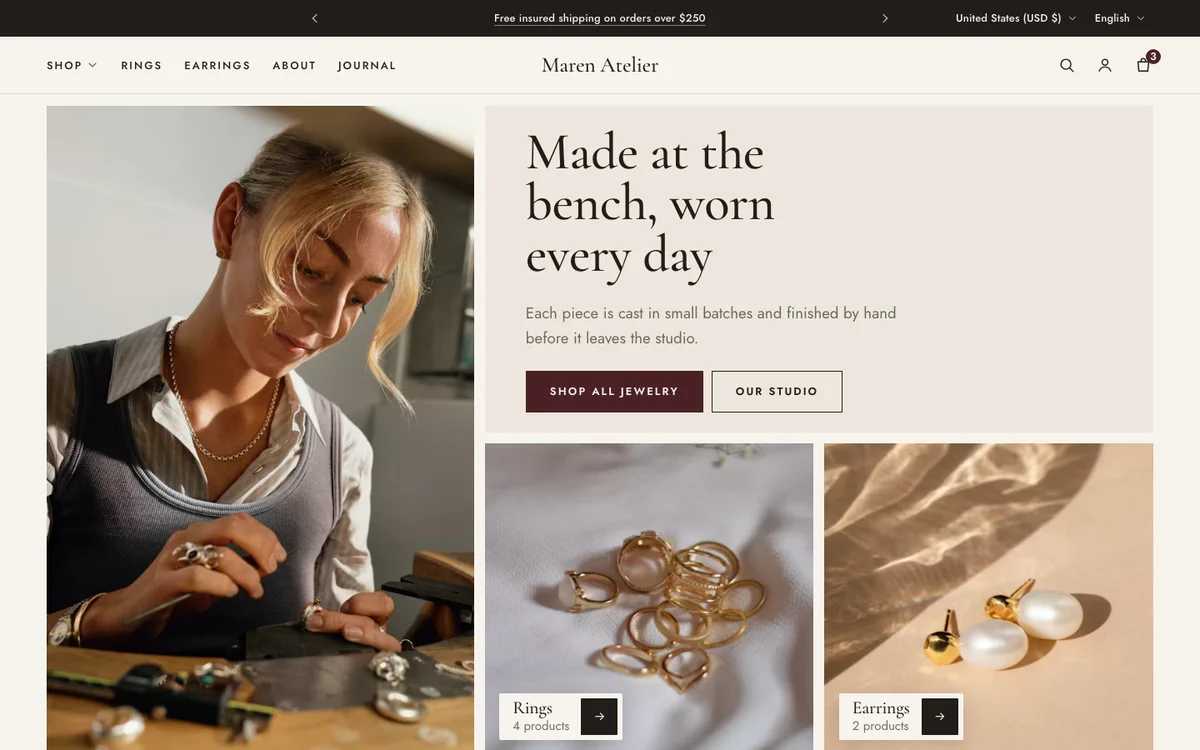
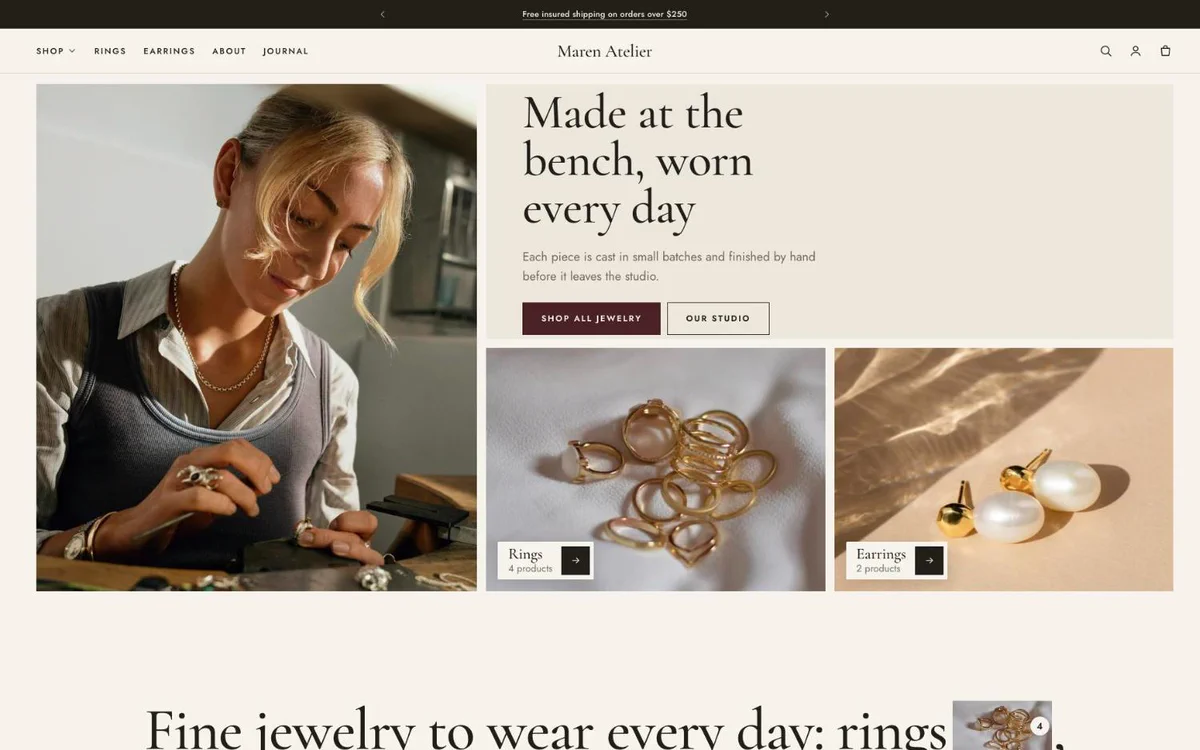
Use live store captures for the Almanac cards
The Almanac card images were themivo-builder renders, not the exported
theme that runs on the stores. Replace them with captures of each live
store's home page, opened through admin's store preview with motion off.

diff --git a/src/work.ts b/src/work.ts
@@ -4,10 +4,8 @@
 // public/work/ — retake them when a storefront changes enough that ours no
 // longer matches what a visitor would find. The Vellmar shots are crops of the
 // Theme Store listing captures (misothemes/vellora/docs/launch/listing); the
-// Almanac shots are 1440px themivo-builder renders of the same theme and demo
-// content (`tv shot <preset> index`), cropped below the announcement bar where
-// the store hides an announcement — retake them from the stores once each
-// staging theme is published.
+// Almanac shots are captures of each live store (opened through admin's store
+// preview, motion off), two viewport shots stitched to 16:10.
 //
 // Facts only: the store, what it sells, and the theme it runs. Results and
 // scope details belong here once the client has agreed to them being public.
